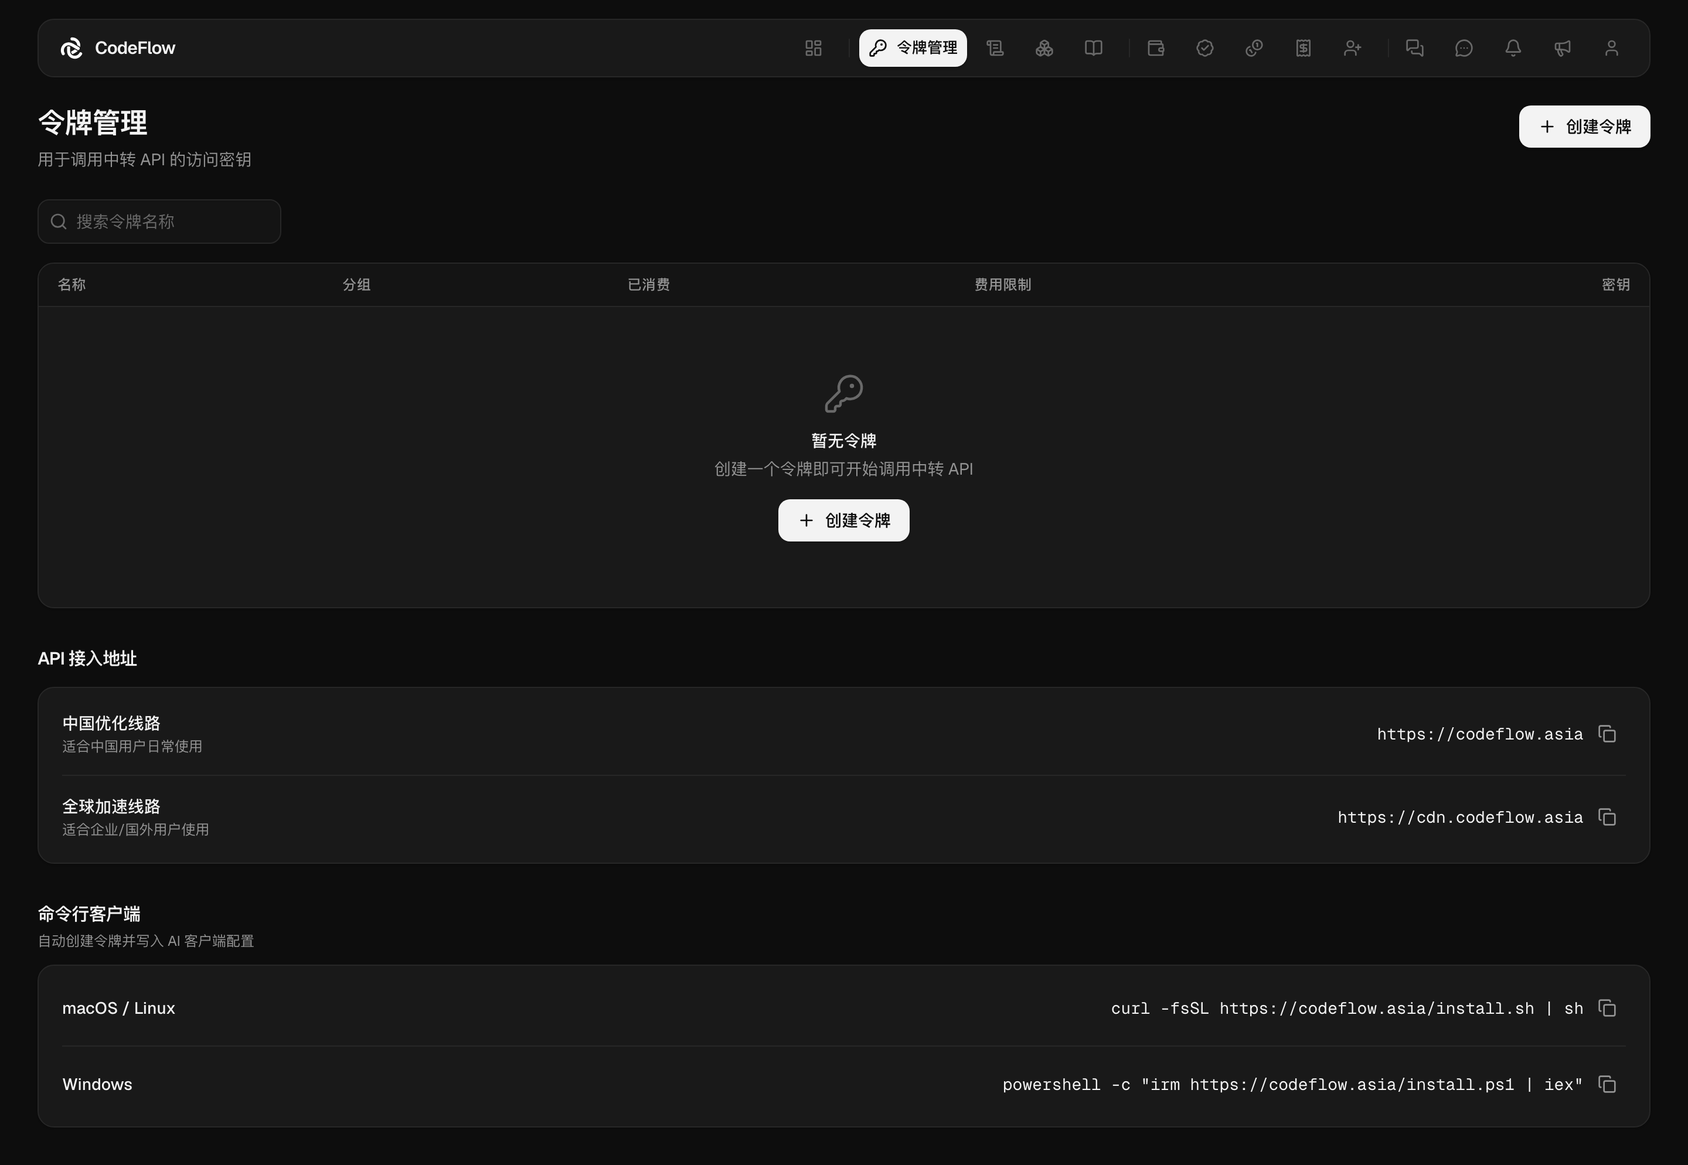
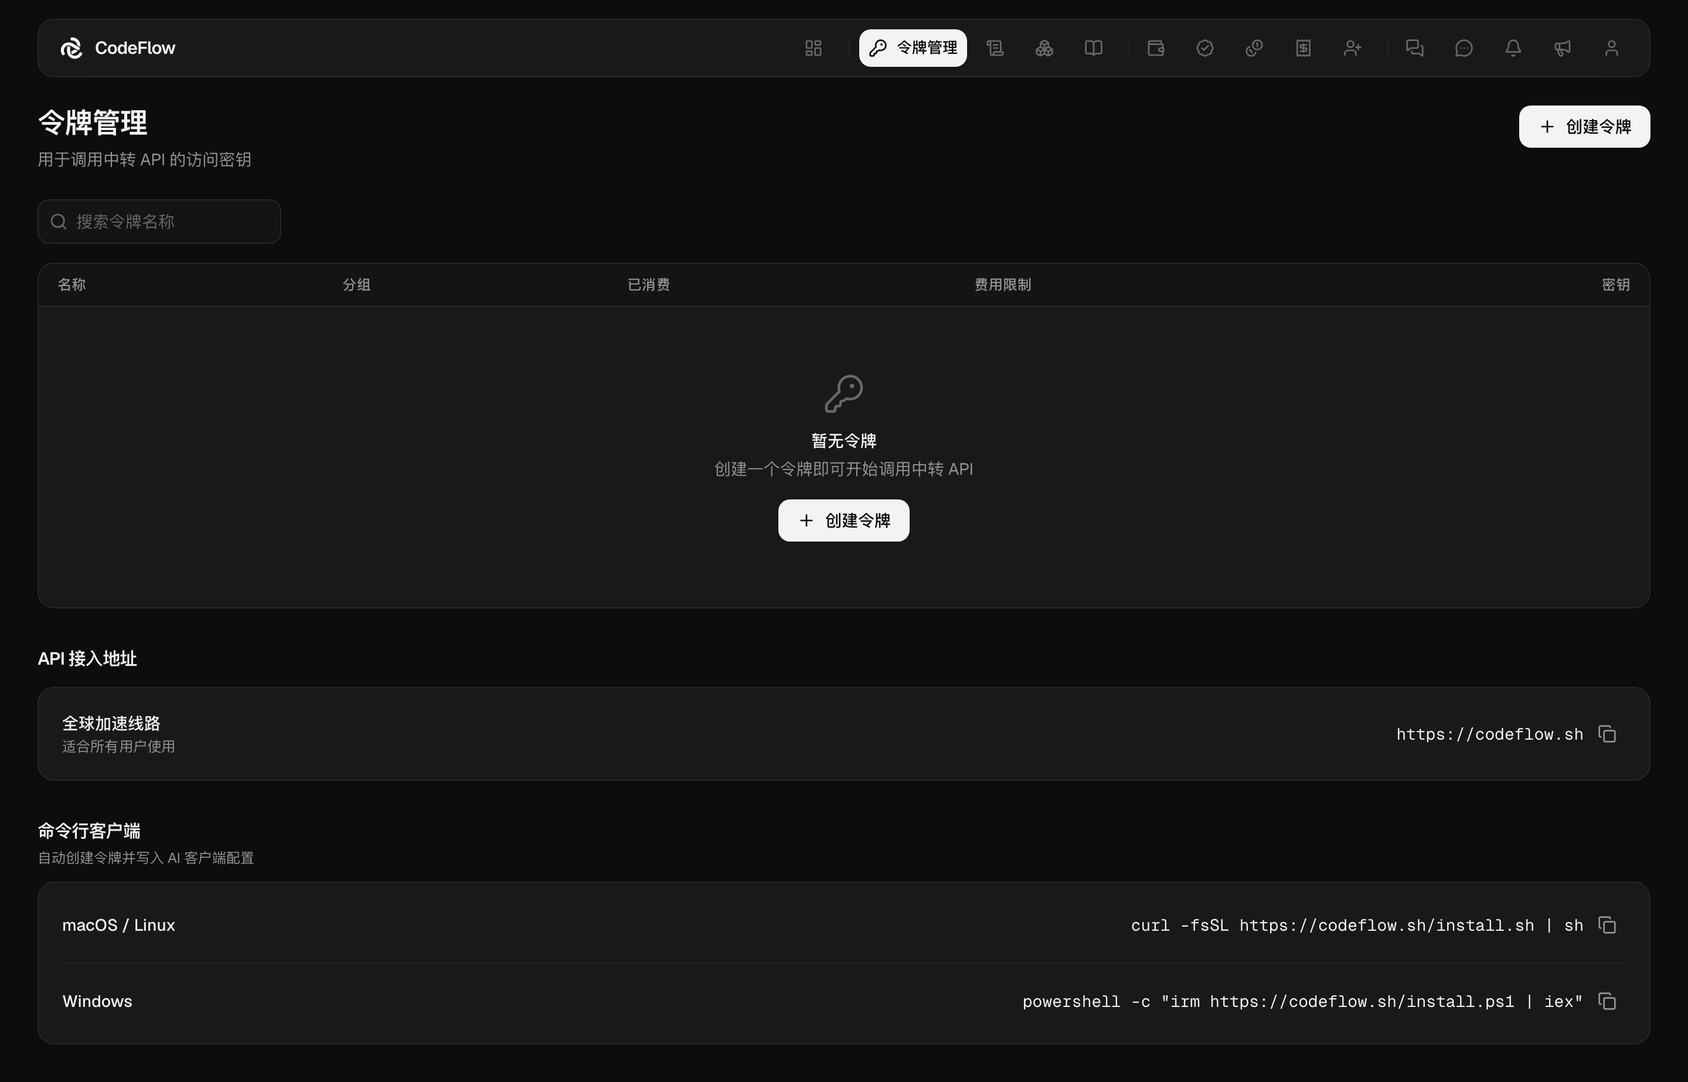
docs: 同步主站更新，修正过时地址、线路、分组与计费说明，并修图更新截图
主站已换用 codeflow.sh 并下线中国优化线路，Codex 官方分组更名为 ChatGPT 官方分组，
Claude 官方分组倍率调为 ×10，套餐由「月卡」改名为「订阅」，模型广场下架 GPT-5.5、
新增 GPT-6.1 Terra，并新增长上下文阶梯价、订阅续费与订单退款等功能

- 接入凭证：API 接入地址改为单一全球加速线路，分组表与选择建议同步新名称与倍率，补充 Grok 模型分组说明
- 模型与计费：核验日期更新，新增长上下文计费与退款小节，补充参数倍率、无用量估算计费、
  续费与完整额度流水类型，修正缓存读取价格并非一律为输入价十分之一的说法
- 快速开始、控制台：更新充值换算与邀请返利，额度流水类型补全，参考文档补上 Kilo Code
- CC Switch、Hermes Agent、Pi Coding Agent：删除两条线路互通的过时说明
- 截图：令牌管理页去掉中国优化线路并改为新地址；创建令牌、订阅套餐、模型广场按现行
  分组、倍率、套餐名与模型列表修图；CC Switch、Cherry Studio、Kilo Code 与命令行文档
  阅读截图中的 codeflow.asia 改为 codeflow.sh，Kilo Code 模型列表去掉已下架的 gpt-5.5

Claude-Session: https://claude.ai/code/session_012mk5bNrJ6J9g8EQa2VTduz

diff --git a/guides/models-and-billing.md b/guides/models-and-billing.md
@@ -3,10 +3,10 @@
 > **数据来源与核验**
 >
 > - **来源**：[{{SITE_NAME}}「模型广场」]({{SITE_URL}}/#pricing) 与登录后的[控制台「订阅套餐」]({{SITE_URL}}/subscription)
-> - **核验范围**：模型列表、模型 ID 与单价，订阅套餐的价格与每日额度，「扣费方式」选项与预扣规则
-> - **最后核验日期**：2026 年 9 月 19 日
+> - **核验范围**：模型列表、模型 ID 与单价（含长上下文阶梯价），订阅套餐的名称、价格、覆盖分组与额度，「扣费方式」选项、预扣规则与额度流水类型
+> - **最后核验日期**：2026 年 11 月 3 日
 
-本页说明模型单价的公示位置、按量计费与订阅套餐两种计费方式，以及预扣结算与缓存计费规则。模型可用性、单价和套餐可能调整，使用前以站点实时显示为准
+本页说明模型单价的公示位置、按量计费与订阅套餐两种计费方式，以及预扣结算、长上下文与缓存计费规则。模型可用性、单价和套餐可能调整，使用前以站点实时显示为准
 
 ## 模型广场
 
@@ -16,9 +16,30 @@
 
 > **配置说明**
 >
-> 上图为 2026 年 10 月 3 日的界面留档，可能包含当前已不再展示的模型，当前模型列表以 **模型广场** 实时显示为准
+> 上图已按 2026 年 11 月 3 日公示的模型列表与单价更新，此后上下架的模型以 **模型广场** 实时显示为准
 
-**模型广场** 中的单价单位为美元／百万 Token。各类 Token 费用按「该类计费用量 ÷ 1,000,000 × 对应单价」计算，输入、输出、缓存读取和缓存写入分别计价。**实际扣费 = 各类 Token 费用之和 × 令牌所在分组的计费倍率**，各分组的倍率见[分组与计费倍率](/guides/access.md#分组与计费倍率)。最终扣费结果以控制台 **额度流水** 为准
+**模型广场** 中的单价单位为美元／百万 Token。各类 Token 费用按「该类计费用量 ÷ 1,000,000 × 对应单价」计算，输入、输出、缓存读取和缓存写入分别计价。**实际扣费 = 各类 Token 费用之和 × 令牌所在分组的计费倍率**，各分组的倍率见[分组与计费倍率](/guides/access.md#分组与计费倍率)。部分模型还会对特定请求参数另设倍率，命中时 Token 费用再乘以该倍率，多条命中依次相乘；**使用日志** 的调用详情会分别显示分组倍率、参数倍率与总倍率。最终扣费结果以控制台 **额度流水** 为准
+
+### 长上下文计费
+
+部分模型按单次请求的输入 Token 数分为 **基础** 与 **扩展** 两档单价：输入不超过阈值时按基础档计费，超过阈值时按扩展档计费。登录后在 **模型广场** 点开模型即可查看各档单价。核验时设有扩展档的模型如下，单位为美元／百万 Token，未计入分组倍率：
+
+|模型 ID|扩展档条件|输入|输出|缓存读取|缓存写入|
+|---|---|---|---|---|---|
+|`claude-haiku-5-5`|输入超过 100k|0.50|2.50|0.05|0.625|
+|`gpt-5.6-luna`|输入超过 272k|2.00|9.00|0.20|2.50|
+|`gpt-5.6-sol`|输入超过 272k|10.00|45.00|1.00|12.50|
+|`gpt-5.6-terra`|输入超过 272k|5.00|22.50|0.50|6.25|
+|`gpt-6-astra`|输入超过 272k|20.00|75.00|2.00|25.00|
+|`gpt-6-luna`|输入超过 272k|1.00|3.75|0.10|2.50|
+|`gpt-6-sol`|输入超过 272k|4.00|15.00|0.40|5.00|
+|`gpt-6.1-sol`|输入超过 272k|4.00|15.00|0.20|5.00|
+|`gpt-6.1-terra`|输入超过 272k|2.00|7.50|0.10|2.50|
+|`grok-4.5`|输入超过 200k|4.00|12.00|0.60|-|
+|`grok-4.6`|输入超过 200k|4.00|12.00|1.00|-|
+|`grok-4.7`|输入超过 200k|4.00|12.00|1.00|-|
+
+基础档单价即 **模型广场** 列表中显示的单价
 
 ## 计费方式
 
@@ -43,9 +64,22 @@
 
 「未覆盖当前分组」指令牌所在分组不在任何有效订阅的覆盖范围内。订阅额度用尽而当前方式又不改扣余额时，请求会被拒绝，并在响应中给出恢复时间
 
+生效中的订阅可在 **我的订阅** 中点击 **续费**，续费按套餐当前价格与时长在原到期时间上顺延
+
+## 退款
+
+**账户充值** 与 **订阅套餐** 的已支付订单可以申请退款，款项审核通过后原路退回支付宝；申请期间可以撤销，驳回或撤销后额度自动恢复。核验时的规则如下：
+
+|订单类型|提交申请后|退款金额|
+|---|---|---|
+|充值订单|本单剩余额度与关联的邀请奖励立即从余额收回|已消耗部分对应的现金不退|
+|订阅订单|本单未开始的时长立即失效，正在服务中的时段保留至当前限额周期结束|按未开始的限额周期折算|
+
+已开票或有未处理开票申请的订单不能退款；存在更晚入账的订单时，需按从新到旧的顺序依次申请。具体能否退款及金额，以申请时页面显示为准
+
 ## 预扣与额度流水
 
-**额度流水** 记录账户额度变动，页面可能显示预扣、预扣退回和消费等类型
+**额度流水** 记录账户额度变动，类型包括充值、预扣、预扣退回、消费、退款、退款返还、奖励与管理员调整
 
 调用发起后，系统先按本次请求估算一笔预扣：以估算的输入 Token 数加上请求声明的最大输出 Token 数，按输入单价与分组倍率计算；未声明最大输出时只按输入估算。调用结束后按实际用量结算，实际费用低于预扣则退回差额，高于预扣则追加一笔消费。单次调用的完整记录形式如下：
 
@@ -56,12 +90,14 @@
 
 上例中，两笔流水的净扣减额为 $0.331596。**额度流水** 中的请求 ID 可与 **使用日志** 中的具体调用对应，用于核对用量和扣费
 
+上游未返回用量数据时，本次费用按请求与响应的文本量估算；既未返回用量也没有输出内容的调用不计费
+
 > **注意**
 >
 > 可用余额低于本次预扣额时无法发起调用，即使最终费用更低；客户端声明的最大输出越大，单次预扣也越大。规则如有调整，以控制台返回信息为准
 
 ## 缓存计费
 
-**模型广场** 中的 **缓存读取** 价格为对应输入价格的十分之一。部分客户端和模型支持复用上下文缓存；命中缓存时，相关输入会按缓存读取价格计费
+**模型广场** 分别列出 **缓存读取** 与 **缓存写入** 单价。缓存读取单价多为输入单价的十分之一，也有模型更低或更高，以 **模型广场** 为准；缓存写入显示为 `-` 表示该模型未设缓存写入单价。部分客户端和模型支持复用上下文缓存；命中缓存时，相关输入会按缓存读取价格计费
 
 缓存行为取决于客户端、模型和上游实现，不能保证每次请求都命中。同一任务保持在连续会话中，通常更有利于复用已有上下文

diff --git a/guides/access.md b/guides/access.md
@@ -8,7 +8,7 @@
 
 ![令牌管理与 API 接入地址](/assets/images/access/token-management-api-endpoint.webp)
 
-控制台提供 **中国优化线路** 与 **全球加速线路**，两条线路的账号、令牌与余额通用，可随时切换。先复制所选线路的地址，再按客户端要求决定是否在末尾追加 `/v1`
+控制台当前提供一条 **全球加速线路**，页面标注为适合所有用户使用，地址即 `{{SITE_URL}}`。复制地址后，按客户端要求决定是否在末尾追加 `/v1`
 
 下面以 `{{SITE_URL}}` 为例展示两种地址格式：
 
@@ -17,7 +17,7 @@
 {{SITE_URL}}/v1
 ```
 
-各客户端要求的地址格式如下。使用其他线路时，将示例中的 `{{SITE_URL}}` 替换为从控制台复制的线路地址，并保留对应的 `/v1` 要求：
+各客户端要求的地址格式如下。若控制台日后提供其他线路，将示例中的 `{{SITE_URL}}` 替换为从控制台复制的线路地址，并保留对应的 `/v1` 要求：
 
 |客户端|接入地址|
 |---|---|
@@ -67,20 +67,22 @@
 
 > **数据来源与核验**
 >
-> - **来源**：[{{SITE_NAME}} 控制台「令牌管理」]({{SITE_URL}}/tokens)的创建令牌分组选项
-> - **核验范围**：分组名称与计费倍率
-> - **最后核验日期**：2026 年 10 月 3 日
+> - **来源**：[{{SITE_NAME}} 控制台「令牌管理」]({{SITE_URL}}/tokens)的创建令牌分组选项，以及[{{SITE_NAME}}「订阅套餐」]({{SITE_URL}}/#plans)公示的覆盖分组
+> - **核验范围**：分组名称与计费倍率；表中「说明」列的线路标注沿用 2026 年 10 月 3 日控制台的显示
+> - **最后核验日期**：2026 年 11 月 3 日
 
 创建令牌时选择的分组决定可调用的模型范围、平台采用的服务线路以及计费倍率。计费时，先按各类 Token 的计费用量与对应单价计算费用，再应用分组倍率；计算方式见[模型与计费](/guides/models-and-billing.md#模型广场)
 
 |分组|说明|可调用模型|计费倍率|
 |---|---|---|---|
 |Claude 低价分组|平台标注为 Kiro 线路|Claude 系列（`claude-*`）|×1|
-|Codex 官方分组|平台标注为 Codex 官方线路|GPT 系列（`gpt-*`）|×2|
+|ChatGPT 官方分组（原 Codex 官方分组）|平台标注为 Codex 官方线路|GPT 系列（`gpt-*`）|×2|
 |Claude 稳定分组|平台标注为混合线路|Claude 系列（`claude-*`）|×3|
-|Claude 官方分组|平台标注为 Claude 官方线路|Claude 系列（`claude-*`）|×9|
+|Claude 官方分组|平台标注为 Claude 官方线路|Claude 系列（`claude-*`）|×10|
 
 表中的线路说明来自控制台，用于区分平台提供的服务分组，不构成对具体上游实现的独立保证。线路名称、可用模型和倍率均可能调整，创建令牌时以控制台实时显示为准
+
+**模型广场** 另列有 Grok 系列模型（`grok-*`），核验时公开信息未标明其对应分组；需要调用时，以创建令牌时控制台显示的分组为准
 
 选择建议：
 
@@ -88,9 +90,9 @@
 |---|---|
 |优先考虑较低倍率|Claude 低价分组（×1）|
 |需要平台标注的混合线路|Claude 稳定分组（×3）|
-|需要平台标注的官方线路|Claude 官方分组（×9）|
-|Codex／GPT 系列|Codex 官方分组（×2）|
+|需要平台标注的官方线路|Claude 官方分组（×10）|
+|Codex／GPT 系列|ChatGPT 官方分组（×2）|
 
 > **注意**
 >
-> 令牌分组必须与模型系列匹配：`claude-*` 模型对应 Claude 系列分组，`gpt-*` 模型对应 Codex 官方分组。分组不匹配时，请求通常会返回模型不可用或类似错误。需要同时使用两类模型时，分别创建令牌
+> 令牌分组必须与模型系列匹配：`claude-*` 模型对应 Claude 系列分组，`gpt-*` 模型对应 ChatGPT 官方分组。分组不匹配时，请求通常会返回模型不可用或类似错误。需要同时使用两类模型时，分别创建令牌

diff --git a/guides/quick-start.md b/guides/quick-start.md
@@ -11,24 +11,24 @@
 > **数据来源与核验**
 >
 > - **来源**：[{{SITE_NAME}}「充值优惠」]({{SITE_URL}}/#packages)
-> - **核验范围**：基础换算、充值套餐优惠与余额有效期
-> - **最后核验日期**：2026 年 9 月 6 日
+> - **核验范围**：基础换算、最低金额、充值套餐优惠与余额有效期
+> - **最后核验日期**：2026 年 11 月 3 日
 
-进入 **账户充值**，选择预设档位或输入自定义金额，并按页面提示完成支付宝付款。付款成功后额度通常会自动到账；若长时间未到账，保留订单号并提交工单
+进入 **账户充值**，选择预设档位或输入自定义金额，并按页面提示完成支付宝付款。核验时 ¥1 可充 $5 额度，自定义金额最低 ¥1，充值套餐低至 8.5 折，余额永不过期。付款成功后额度通常会自动到账；若长时间未到账，保留订单号并提交工单
 
 ![账户充值](/assets/images/quick-start/account-recharge.webp)
 
 > **配置说明**
 >
-> 上图为 2026 年 10 月 3 日的界面留档。换算比例、优惠、最低金额和余额有效期均可能调整，实际付款金额与到账额度以 **账户充值** 页面实时显示为准
+> 上图为 2026 年 10 月 3 日的界面留档，档位与 2026 年 11 月 3 日核验时一致。换算比例、优惠、最低金额和余额有效期均可能调整，实际付款金额与到账额度以 **账户充值** 页面实时显示为准
 
-除充值外，也可以在 **订阅套餐** 中购买套餐。两种计费方式的差异与预扣规则见[模型与计费](/guides/models-and-billing.md)
+除充值外，也可以在 **订阅套餐** 中购买套餐。两种计费方式的差异、预扣与退款规则见[模型与计费](/guides/models-and-billing.md)
 
 ## 创建令牌
 
 进入 **令牌管理 → 创建令牌**，填写 **名称**、选择 **分组**，按需设置 **费用限制**。完整令牌只在创建时显示一次，创建后立即复制并妥善保存
 
-分组决定令牌可调用的模型系列：`gpt-*` 模型对应 Codex 官方分组，`claude-*` 模型对应 Claude 系列分组。字段说明见[API 令牌](/guides/access.md#api-令牌)，分组差异见[分组与计费倍率](/guides/access.md#分组与计费倍率)
+分组决定令牌可调用的模型系列：`gpt-*` 模型对应 ChatGPT 官方分组，`claude-*` 模型对应 Claude 系列分组。字段说明见[API 令牌](/guides/access.md#api-令牌)，分组差异见[分组与计费倍率](/guides/access.md#分组与计费倍率)
 
 ## 配置客户端
 

diff --git a/guides/console.md b/guides/console.md
@@ -6,14 +6,16 @@
 
 |页面|用途|
 |---|---|
-|**额度流水**|账户额度的每笔变动与结余，含预扣、预扣退回、消费三类|
+|**额度流水**|账户额度的每笔变动与结余，类型包括充值、预扣、预扣退回、消费、退款、退款返还、奖励与管理员调整|
 |**发票管理**|为已付款订单在线申请开票，可保存常用抬头|
-|**邀请好友**|获取邀请码并查看当前邀请奖励规则；具体比例以控制台实时显示为准|
+|**邀请好友**|获取邀请码与邀请链接，查看邀请记录和奖励额度。核验时（2026 年 11 月 3 日）的规则为好友首次充值后双方各得实付金额对应额度的 5%，以控制台实时显示为准|
 |**工单支持**|提交问题并跟进处理进度|
 |**社区论坛**|与其他用户交流使用经验，可发帖、评论、点赞和收藏|
 |**站内消息**|工单回复、发票与退款结果、订阅到期等通知，以及社区互动与审核结果|
 |**系统公告**|平台通知与维护公告|
 |**个人主页**|查看社区足迹；在 **账户与安全** 中修改用户名／邮箱／密码，启用两步验证与 Passkey，查看登录设备|
+
+充值订单与订阅订单可在 **账户充值**、**订阅套餐** 页面申请退款，规则见[退款](/guides/models-and-billing.md#退款)
 
 ## 账户安全
 
@@ -31,6 +33,7 @@
 - [Codex](https://github.com/openai/codex)
 - [CC Switch](https://github.com/farion1231/cc-switch/blob/main/README_ZH.md)
 - [Cherry Studio](https://docs.cherry-ai.com/)
+- [Kilo Code](https://kilo.ai/docs)
 - [OpenClaw](https://github.com/openclaw/openclaw)
 - [Hermes Agent](https://hermes-agent.nousresearch.com/docs)
 - [OpenCode](https://opencode.ai/docs)

diff --git a/guides/pi-coding-agent.md b/guides/pi-coding-agent.md
@@ -65,7 +65,7 @@ Pi Coding Agent 的自定义供应商配置写在用户级 `models.json` 中：
 |字段|说明|
 |---|---|
 |`providers.codeflow`|自定义供应商 ID，启动命令和模型选择时使用 `codeflow`|
-|`baseUrl`|所选线路的接入地址，不带 `/v1`；Pi Coding Agent 使用的 Anthropic SDK 会补全消息接口路径|
+|`baseUrl`|接入地址，不带 `/v1`；Pi Coding Agent 使用的 Anthropic SDK 会补全消息接口路径|
 |`api`|本页使用 `anthropic-messages`，对应 Claude 模型|
 |`apiKey`|填写在 {{SITE_NAME}} 创建的 Claude 系列分组令牌，替换示例中的 `sk-您的令牌`|
 |`models[].id`|实际发送给服务端的模型 ID，需与令牌分组匹配|
@@ -73,7 +73,7 @@ Pi Coding Agent 的自定义供应商配置写在用户级 `models.json` 中：
 
 示例模型 ID 依据 2026 年 10 月 3 日的[模型广场界面留档](/guides/models-and-billing.md#模型广场)选取。使用前核对当前可用模型；更换模型时同步修改 `id`、`name` 及下文启动命令
 
-中国优化线路与全球加速线路的账号、令牌与余额通用，可随时切换。复制所选线路的地址作为 `baseUrl`，地址格式说明见[接入凭证中的地址列表](/guides/access.md#base-url)
+`baseUrl` 填写从控制台 **令牌管理** 页面 **API 接入地址** 区域复制的地址，地址格式说明见[接入凭证中的地址列表](/guides/access.md#base-url)
 
 > **提示**
 >

diff --git a/guides/hermes-agent.md b/guides/hermes-agent.md
@@ -70,7 +70,7 @@ model:
 |字段|说明|
 |---|---|
 |`providers.codeflow`|自定义供应商 ID，`model.provider` 与 `/model` 命令中以 `custom:codeflow` 引用|
-|`api`|所选线路的接入地址，不带 `/v1`；Hermes Agent 使用的 Anthropic SDK 会补全消息接口路径|
+|`api`|接入地址，不带 `/v1`；Hermes Agent 使用的 Anthropic SDK 会补全消息接口路径|
 |`key_env`|存放令牌的环境变量名，令牌本身写在 `.env` 中|
 |`transport`|本页使用 `anthropic_messages`，对应 Claude 模型|
 |`discover_models`|`false` 表示不向接入地址探测模型列表，`/model` 只显示下方配置的模型|
@@ -80,7 +80,7 @@ model:
 
 示例模型 ID 依据 2026 年 10 月 3 日的[模型广场界面留档](/guides/models-and-billing.md#模型广场)选取。使用前核对当前可用模型；更换模型时同步修改 `models` 与 `default`
 
-中国优化线路与全球加速线路的账号、令牌与余额通用，可随时切换。复制所选线路的地址作为 `api`，地址格式说明见[接入凭证中的地址列表](/guides/access.md#base-url)
+`api` 填写从控制台 **令牌管理** 页面 **API 接入地址** 区域复制的地址，地址格式说明见[接入凭证中的地址列表](/guides/access.md#base-url)
 
 > **提示**
 >

diff --git a/guides/codex.md b/guides/codex.md
@@ -13,7 +13,7 @@ Codex 是 OpenAI 官方的编码代理，提供命令行与桌面端，二者共
 ## 准备工作
 
 - 已注册 {{SITE_NAME}} 账号并有可用额度，参见[快速开始](/guides/quick-start.md)
-- 已创建 Codex 官方分组的令牌，参见[接入凭证与分组](/guides/access.md)
+- 已创建 ChatGPT 官方分组的令牌，参见[接入凭证与分组](/guides/access.md)
 - 本页使用的接入地址为 `{{SITE_URL}}/v1`，带 `/v1`
 
 ## 安装 Codex
@@ -53,7 +53,7 @@ requires_openai_auth = true
 
 > **注意**
 >
-> `base_url` 必须带 `/v1`；令牌选择 Codex 官方分组
+> `base_url` 必须带 `/v1`；令牌选择 ChatGPT 官方分组
 
 ### auth.json
 
@@ -80,7 +80,7 @@ codex
 |现象|处理方式|
 |---|---|
 |返回 401 或认证失败|确认 `auth.json` 合法且字段名为 `OPENAI_API_KEY`|
-|返回 404 或模型不存在|确认 `model` 可用且令牌属于 Codex 官方分组|
+|返回 404 或模型不存在|确认 `model` 可用且令牌属于 ChatGPT 官方分组|
 |无法连接服务|确认 `base_url` 带 `/v1`，然后重启 Codex|
 |桌面端未生效|完全退出并重新启动 Codex，两端共用同一 `~/.codex` 目录|
 |修改配置后未生效|确认两个文件位于当前用户的 `~/.codex` 目录|
